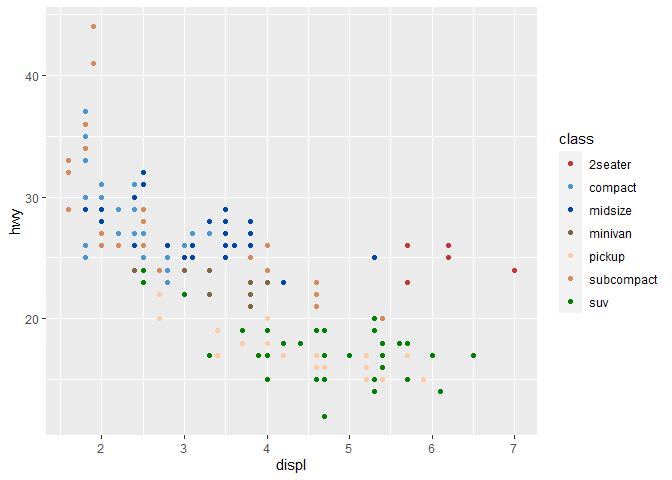
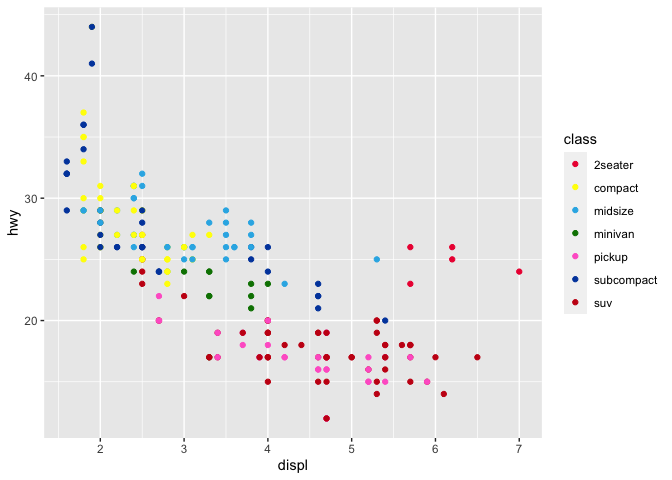
readme

diff --git a/README.md b/README.md
@@ -10,6 +10,11 @@
 consider combining with [ggrough](https://github.com/xvrdm/ggrough) or
 [roughsf](https://github.com/schochastics/roughsf).
 
+These palettes are not necessarily (and unlikely to be) color-blind
+friendly. For public-facing work, consider a color-blind friendly
+package, such as [Cory McCartan’s
+wacolors](https://github.com/corymccartan/wacolors).
+
 ## Installation
 
 You can install the development version of crayons from
@@ -21,7 +26,8 @@ remotes::install_github('christopherkenny/crayons')
 
 ## Example
 
-This is a basic example which shows you how to solve a common problem:
+`crayons` provides basic ggplot2 scales for `fill` and `color` (also
+aliased as `colour`).
 
 ``` r
 library(ggplot2)
@@ -34,3 +40,5 @@ mpg |>
 ```
 
 <img src="man/figures/README-example-1.png" width="100%" />
+
+<img src="man/figures/README-unnamed-chunk-2-1.png" width="100%" /><img src="man/figures/README-unnamed-chunk-2-2.png" width="100%" /><img src="man/figures/README-unnamed-chunk-2-3.png" width="100%" /><img src="man/figures/README-unnamed-chunk-2-4.png" width="100%" /><img src="man/figures/README-unnamed-chunk-2-5.png" width="100%" /><img src="man/figures/README-unnamed-chunk-2-6.png" width="100%" /><img src="man/figures/README-unnamed-chunk-2-7.png" width="100%" /><img src="man/figures/README-unnamed-chunk-2-8.png" width="100%" /><img src="man/figures/README-unnamed-chunk-2-9.png" width="100%" /><img src="man/figures/README-unnamed-chunk-2-10.png" width="100%" /><img src="man/figures/README-unnamed-chunk-2-11.png" width="100%" /><img src="man/figures/README-unnamed-chunk-2-12.png" width="100%" /><img src="man/figures/README-unnamed-chunk-2-13.png" width="100%" /><img src="man/figures/README-unnamed-chunk-2-14.png" width="100%" /><img src="man/figures/README-unnamed-chunk-2-15.png" width="100%" /><img src="man/figures/README-unnamed-chunk-2-16.png" width="100%" /><img src="man/figures/README-unnamed-chunk-2-17.png" width="100%" /><img src="man/figures/README-unnamed-chunk-2-18.png" width="100%" /><img src="man/figures/README-unnamed-chunk-2-19.png" width="100%" /><img src="man/figures/README-unnamed-chunk-2-20.png" width="100%" /><img src="man/figures/README-unnamed-chunk-2-21.png" width="100%" /><img src="man/figures/README-unnamed-chunk-2-22.png" width="100%" /><img src="man/figures/README-unnamed-chunk-2-23.png" width="100%" /><img src="man/figures/README-unnamed-chunk-2-24.png" width="100%" /><img src="man/figures/README-unnamed-chunk-2-25.png" width="100%" /><img src="man/figures/README-unnamed-chunk-2-26.png" width="100%" /><img src="man/figures/README-unnamed-chunk-2-27.png" width="100%" />
